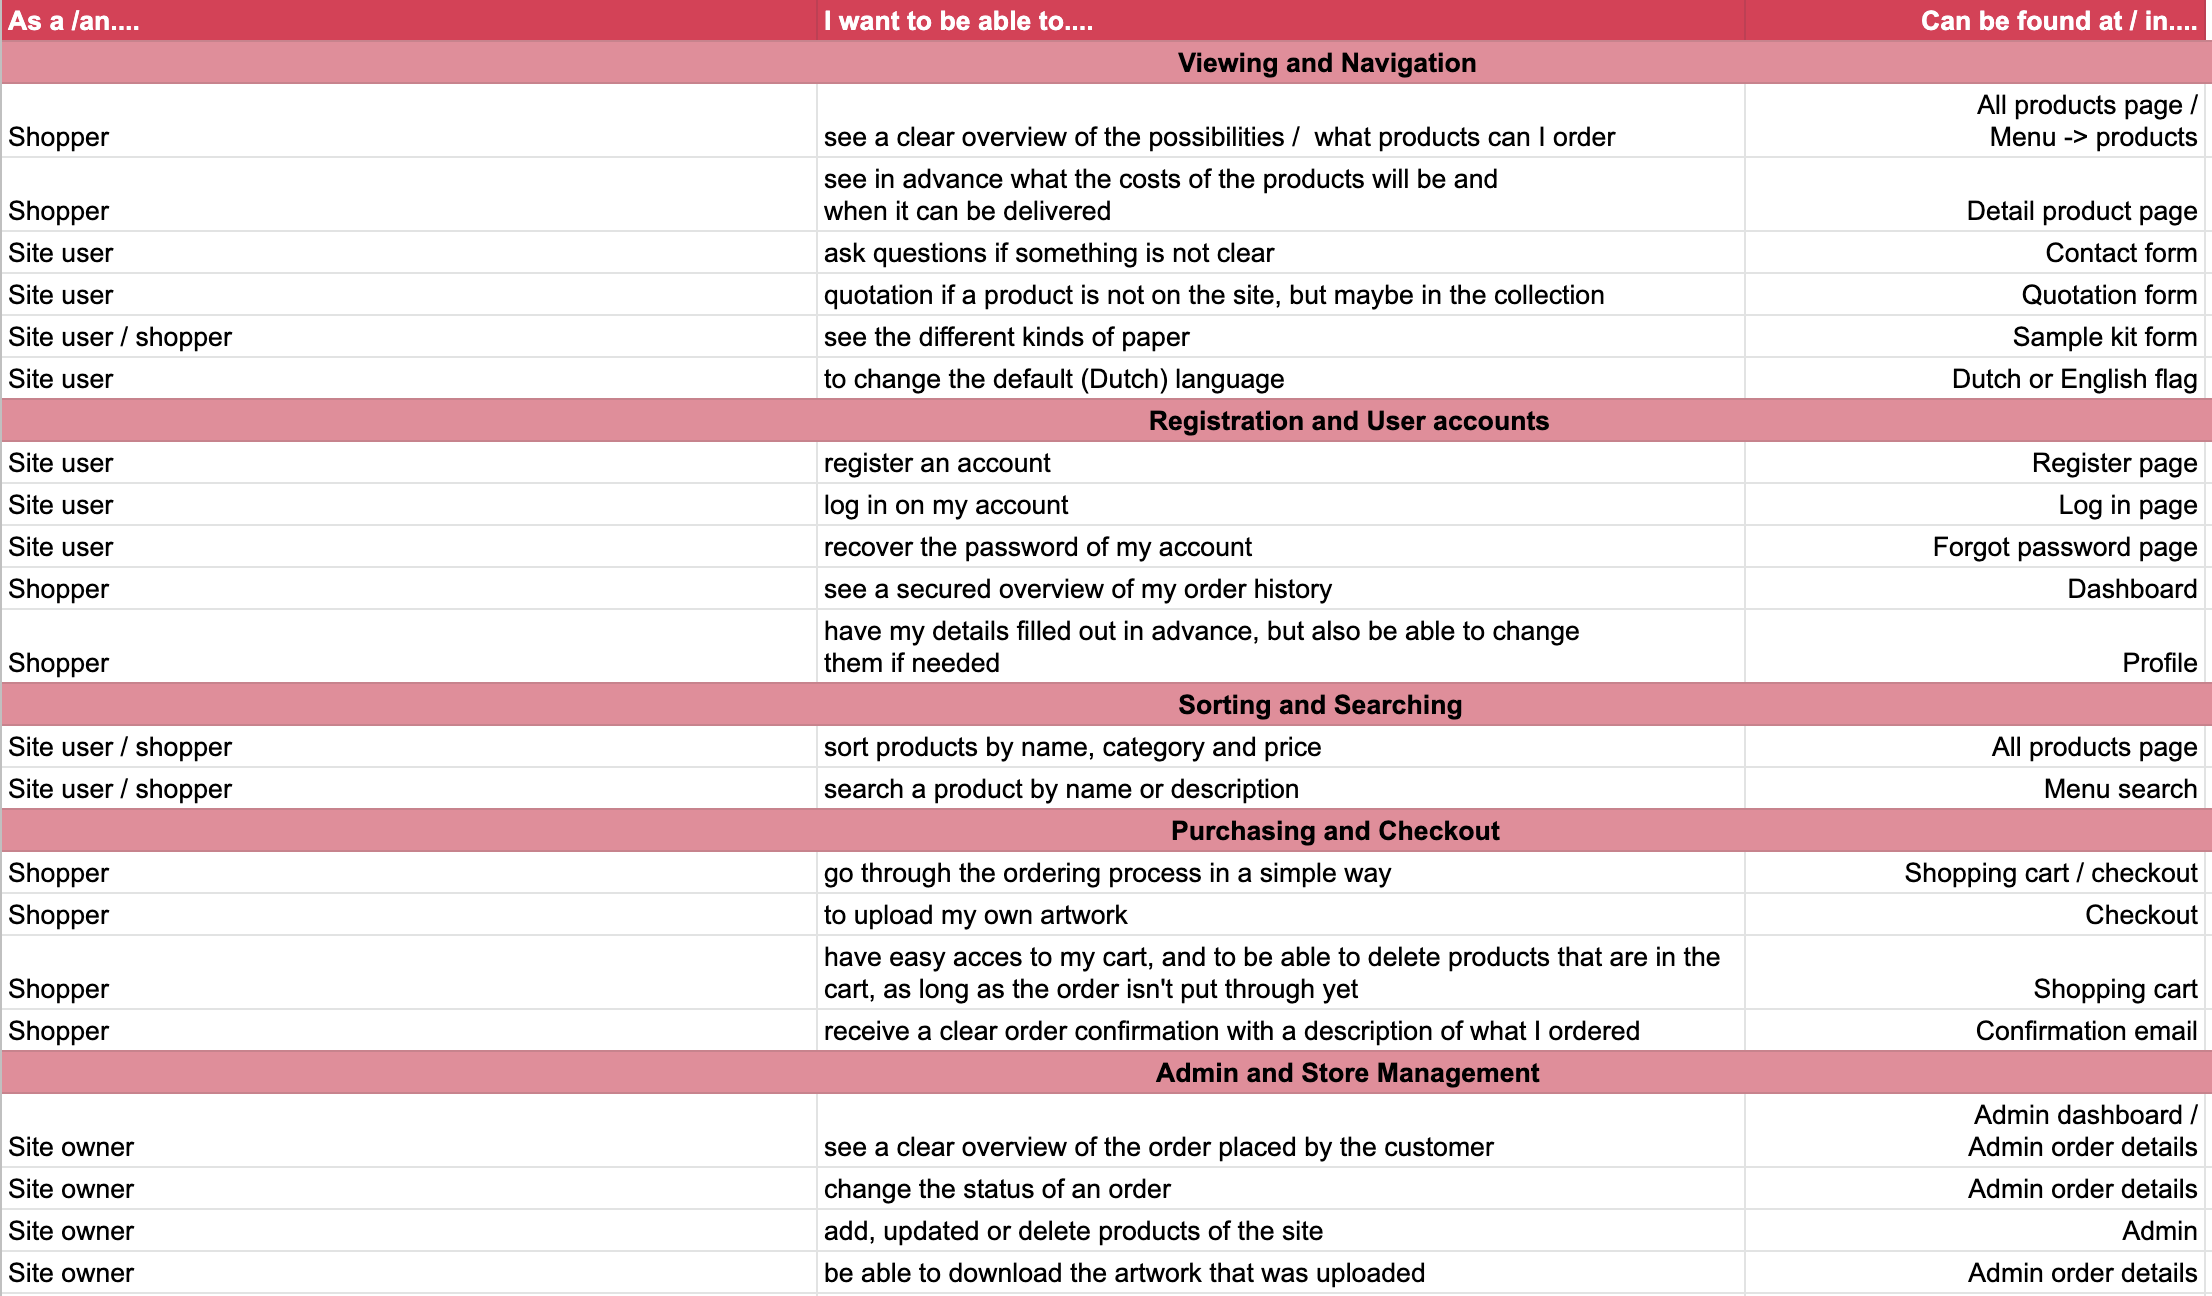
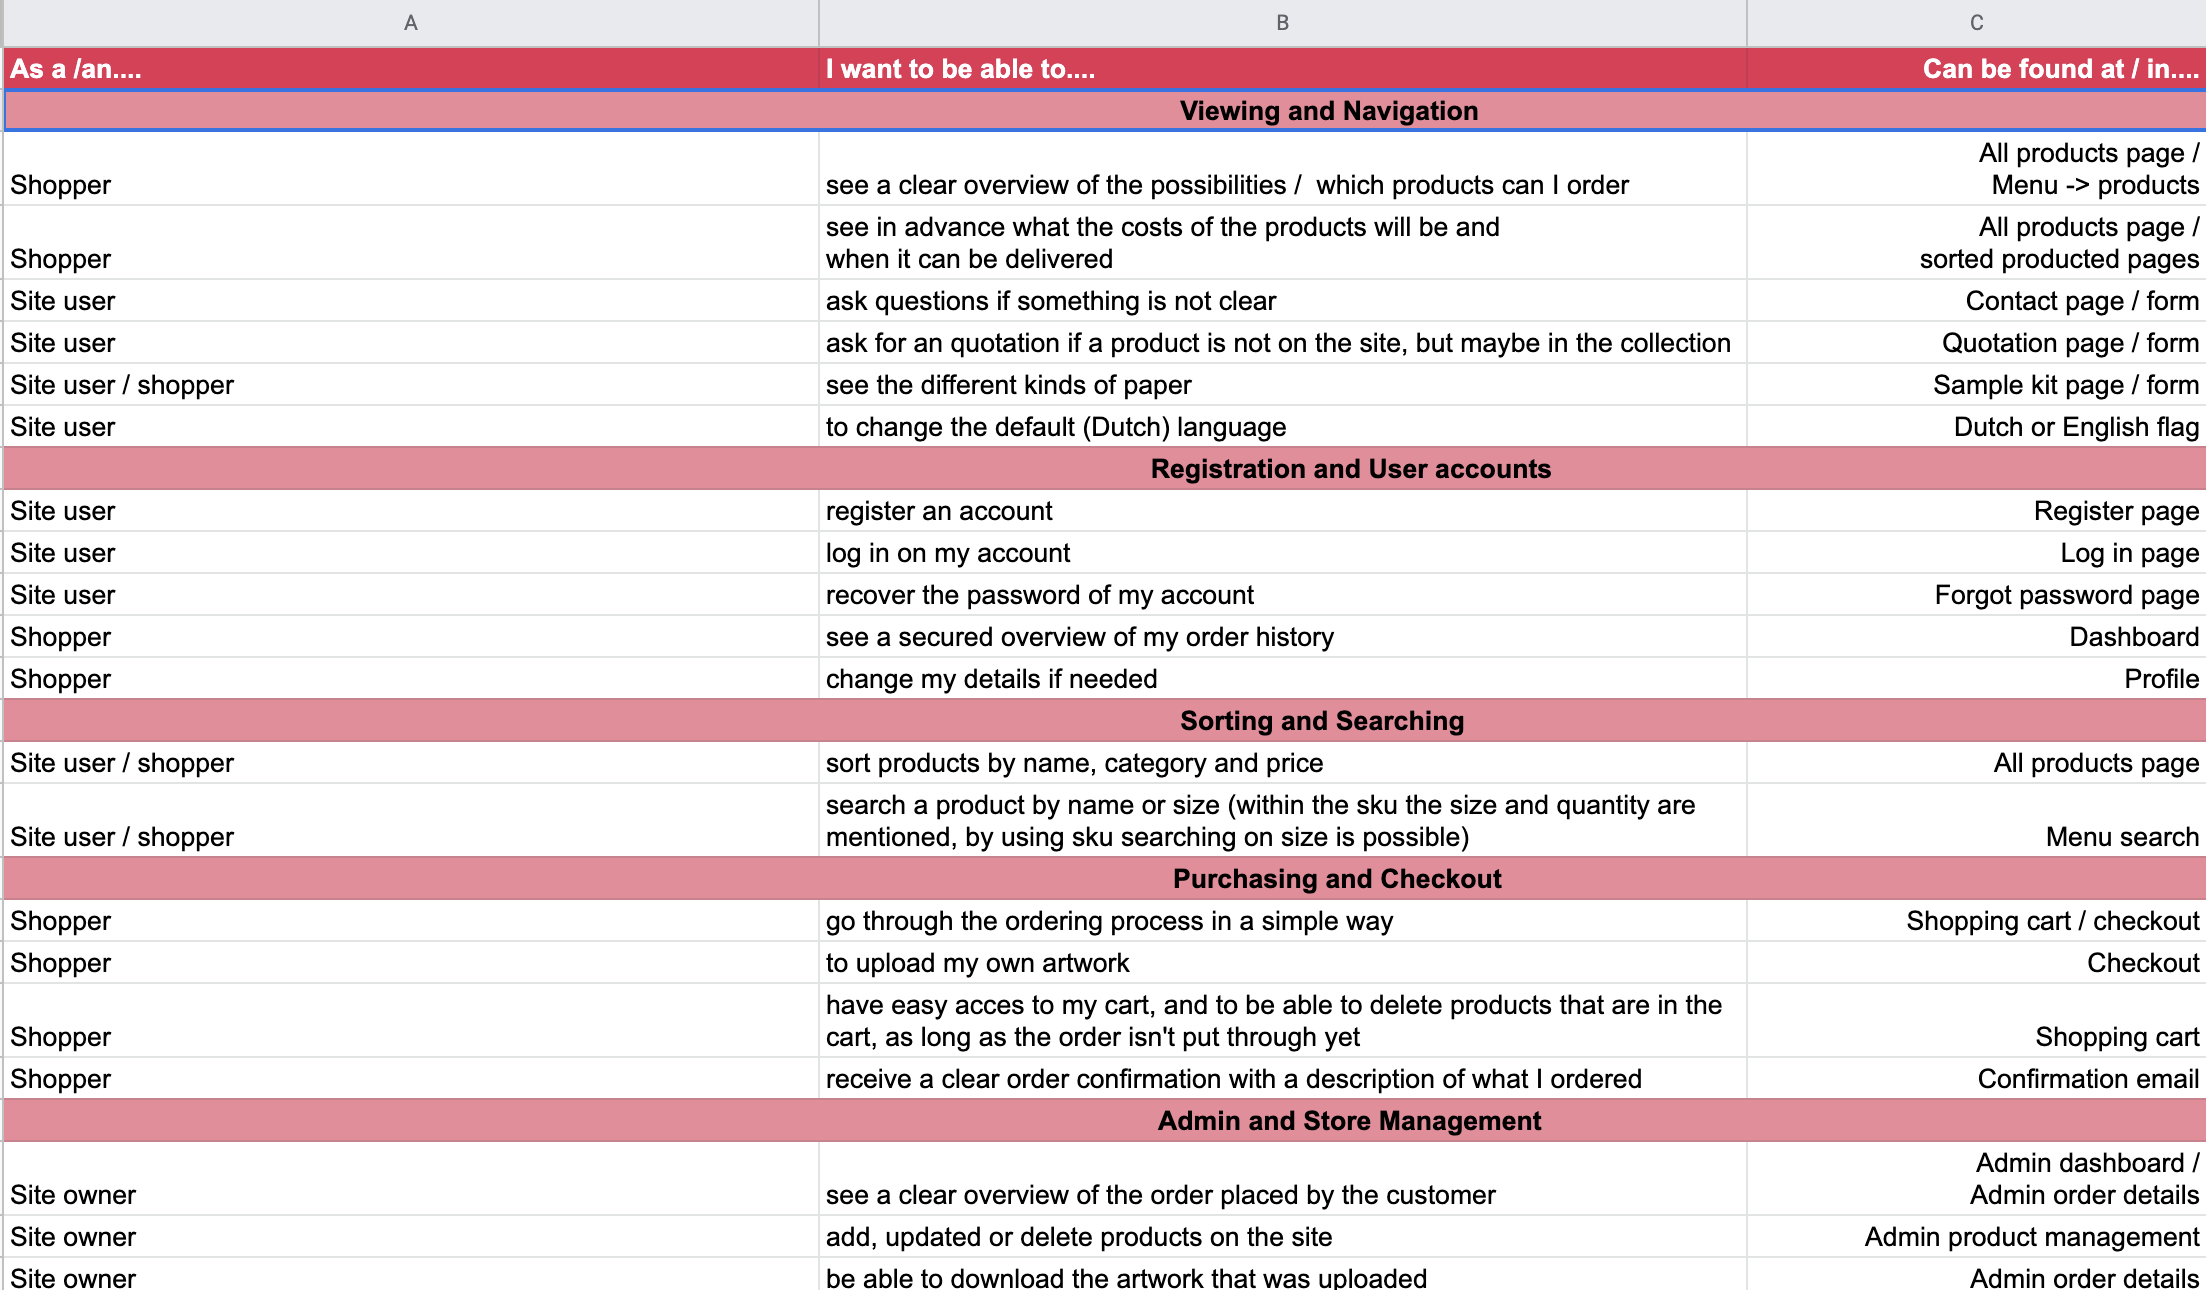
Updated demo, UX, features and credits sections

diff --git a/README.md b/README.md
@@ -8,7 +8,7 @@ Jouw online drukkerij!
 
 POSTFLY is a site where you can order all your necessary printed matter online.
 [POSTFLY](http://www.postfly.nl/) already has an existing site, but it needs an update.
-The existing site as it is now no longer meets the needs of customers and employees. This is a first draft for the company's new site and in this case is for educational purposes only.
+The existing site as it is now no longer meets the needs of customers and employees. This is a first draft for the company's new site and in this case is for educational purposes only. For this reason only a few of the many products are used on this site.
 
 The focus with this site is to combine knowledge about everything conserning printed matter with what was learned during the Code Institute course.
 The site's goal is to have a more efficient system for employees and a easy to understand order system for B2B customers.
@@ -16,7 +16,7 @@ The site's goal is to have a more efficient system for employees and a easy to u
 :clapper: Demo
 ======
 
-<!-- By clicking this [link]() a live demo version will be visible. -->
+By clicking this [link](https://postfly-jouw-online-drukkerij.herokuapp.com/) a live demo version will be visible.
 
 <!-- <img src="static/readme_images/mockup_1.png" alt="Mockup 1" width="65%" height="65%">
 <img src="static/readme_images/mockup_2.png" alt="Mockup 2" width="65%" height="65%"> -->
@@ -66,7 +66,7 @@ The site's goal is to have a more efficient system for employees and a easy to u
 :busts_in_silhouette: UX
 ======
 
-This is meant to be a B2B site which targets visitors who are in need of printed matter, such as flyers, folders, posters, business cards, brochures, etc.
+This is meant to be a B2B site which targets visitors who are in need of printed matter, such as flyers, posters, business cards, etc.
 
 ### User stories
 
@@ -81,6 +81,37 @@ The design goal is to make a clear, accessible, structured site so that visitors
 
 For customers, the site should be an improvement over the existing site. Frequently heard complaints with the existing site include that it is not clear where the artwork should be uploaded and that the payment system is not working.
 If this can be done, it will also ease the workload of the employees, by solving many complaints and questions related to the site.
+The site shows a homepage with links to different parts of the site. It contains a products page where the different products are displayed. There is a files section which gives guidance on how to prepare your digital files and a frequently asked question page for the answers to most asked questions. Furthermore there is a section "About us" which gives a bit of background information about the company and there is a contact section where a contact form can be used, a sample kit request form and a quotation form can be filled out.
+The site also contains a register page, a log in page and a shopping cart which will color red and update the price when there is a product in the cart.
+The register link will dissapear when logged in and the login link will change to account, where the dashboard, profile and logout link will be displayed. When you are a logged in admin there will also be a product management link.
+
+| Nav menu | Logged in User | Logged out User |
+ --- | --- | ---
+Home| &#9989; | &#9989; |
+Products |&#9989; | &#9989; |
+Files|&#9989; | &#9989; |
+FAQ| &#9989; | &#9989; |
+About us| &#9989; | &#9989; |
+Contact | &#9989; | &#9989; |
+Register| &#10060; | &#9989; |
+Log in| &#10060; | &#9989; |
+Account| &#9989; | &#10060; |
+Dashboard| &#9989; | &#10060; |
+Profile| &#9989; | &#10060; |
+Log out| &#9989; | &#10060; |
+Shopping cart | &#9989; | &#9989; |
+
+
+A difference has also been made in user rights:
+| Options | Standard User Account | Admin User Account |
+ --- | --- | ---
+Add products | &#10060; | &#9989; |
+Update products | &#10060; | &#9989; |
+Delete products | &#10060; | &#9989; |
+See own orders| &#9989; | &#9989; |
+customers | &#10060; | &#9989; |
+Edit profile| &#9989; | &#9989; |
+
 
 ### Structure
 
@@ -104,11 +135,10 @@ For the icons [Font Awesome](https://fontawesome.com/) was used.
 
 The site contains the following features: 
 - A page with an overview of all the products which can be sort by name, price and category.
-- A product detail page with the prices of the products and the delivery times.
 - A frequently asked questions page.
 - Pages with tips and tricks about designing / handing in artwork.
 - A contact form where customers can ask questions.
-- A form where customers can request a quote or deviating products / products that are not on the site but we may have.
+- A form where customers can request a quotation or deviating products / products that are not on the site but we may have.
 - A sample kit form where customers can request a sample kit with our paper types.
 - A register page.
 - A login page.
@@ -116,7 +146,7 @@ The site contains the following features:
 - An order sytem, to order the products and upload the artwork for the products.
 - A dashboard, with the order history.
 - A profile page to adjust the user's details. 
-- An option to choose the language, Dutch or English. Default will be Dutch.
+<!-- - An option to choose the language, Dutch or English. Default will be Dutch. -->
 
 ### Features for the future 
 
@@ -124,8 +154,10 @@ The following features can be added:
 
 - Integrate the previously created project POSTFLY Business card creator into this site, so that customers can create their design on the site instead of uploading their separately made artwork.
 - A chat function for live chat with an employee.
-- An artwork upload system where you as a customer can check the artwork theirself.
+- An artwork upload system where a customer can check their artwork themself.
 - An option to have multiple billing and delivery addresses for one user.
+- An option to see the status of the order on the dashboard.
+<!-- - An option to choose the language, Dutch or English. Default will be Dutch. -->
 <div align="right"><a href="#top">🔝</a></div>
 
 :gear: Technologies
@@ -149,7 +181,6 @@ The following features can be added:
 - Django-allauth
 - Django-crispy-forms 
 - Django-countries
-
 
 ### Wireframes
 
@@ -190,6 +221,8 @@ Most content has been written by me, the technical stories regarding the deliver
 ### Code
 1. [Hover.css](https://ianlunn.github.io/Hover/) to learn how to let the buttons on the home page grow on hover.
 2. [W3 Schools](https://www.w3schools.com/howto/howto_css_parallax.asp) to learn how to create the parallax effect.
+3. [W3 Schools](https://www.w3schools.com/howto/howto_css_loader.asp) to learn how to create the loader on the payment process page.
+4. [CI Alumni Aukje van der Wal](https://gitlab.com/Aukje/Dark-Luna/-/blob/master/contact/forms.py) for learning how to set up the contact form and matching email with it.
 
 <div align="right"><a href="#top">🔝</a></div>
 
@@ -213,12 +246,14 @@ Most content has been written by me, the technical stories regarding the deliver
 2. [Tinypng](https://tinypng.com/) to resize the wireframe png's.
 
 <!-- 3. [cdnjs](https://cdnjs.com/) to get the fontawesome cdn from.
-5. [Am I Responsive?](http://ami.responsivedesign.is/) to check the responsiveness and make the mockups.
 6. [WebAIM](https://webaim.org/resources/contrastchecker/) used for checking contrasts on the site. -->
 
 ### Acknowledgements
 
 - My mentor from Code Institute, thank you Narender for your time and guidance.
-- My husband, thank you Django for taking more care of our son so I can work on my education, and thank you for your patience.
+- My husband, thank you Django for taking more care of our son so I can work on my education, and thank you for your patience and guidance in the time I had a lot of mental breakdowns.
+- Special thanks to CI former students Aukje van der Wal and Django Heimgartner whose projects Dark Luna and Silkscreenservice learnt me a lot.
+- A huge thanks to the incredible CI tutor support for helping me a out a lot of times during this project.
+- Special thanks to CI fellow student Gwendolyn Jo for lifting my spirits during multiple mental breakdowns.
 <!-- - Special thanks to my colleagues, friends and family for their support, tips and for testing my project. -->
 <div align="right"><a href="#top">🔝</a></div>
